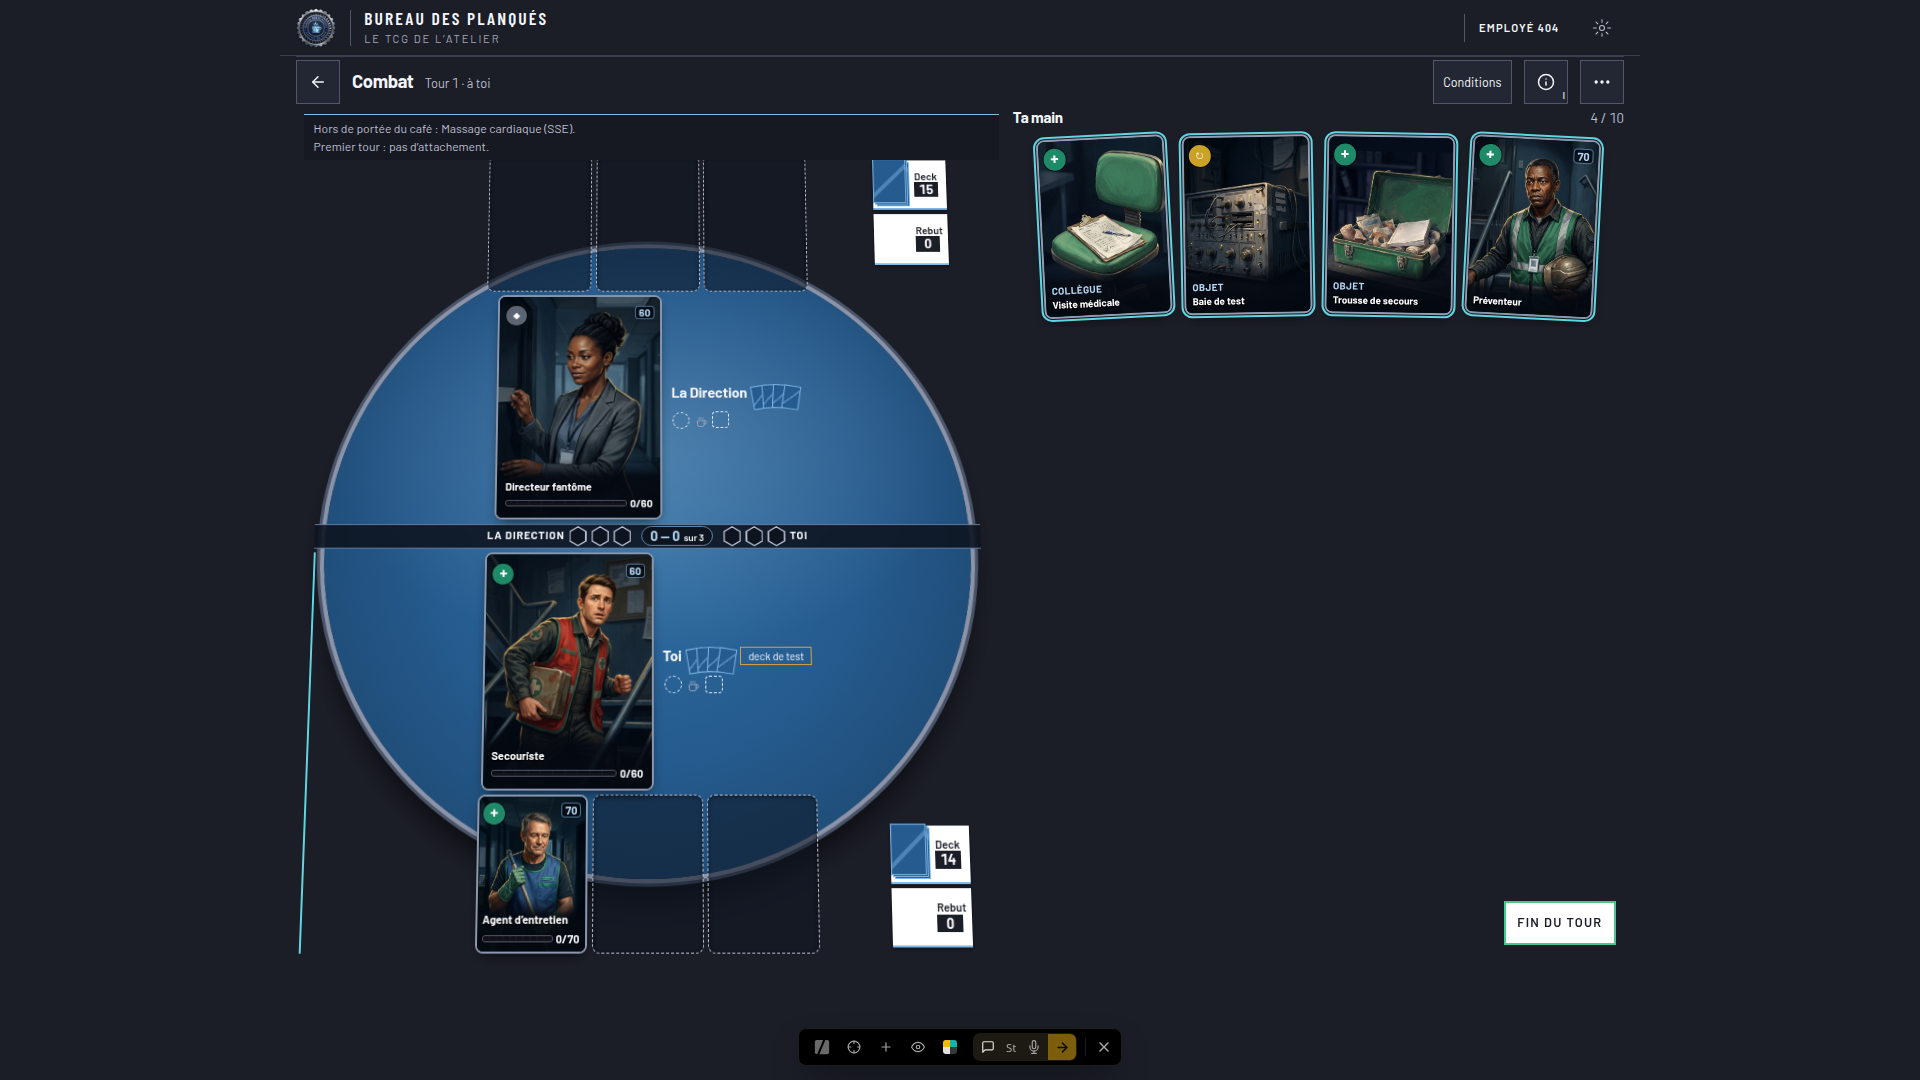
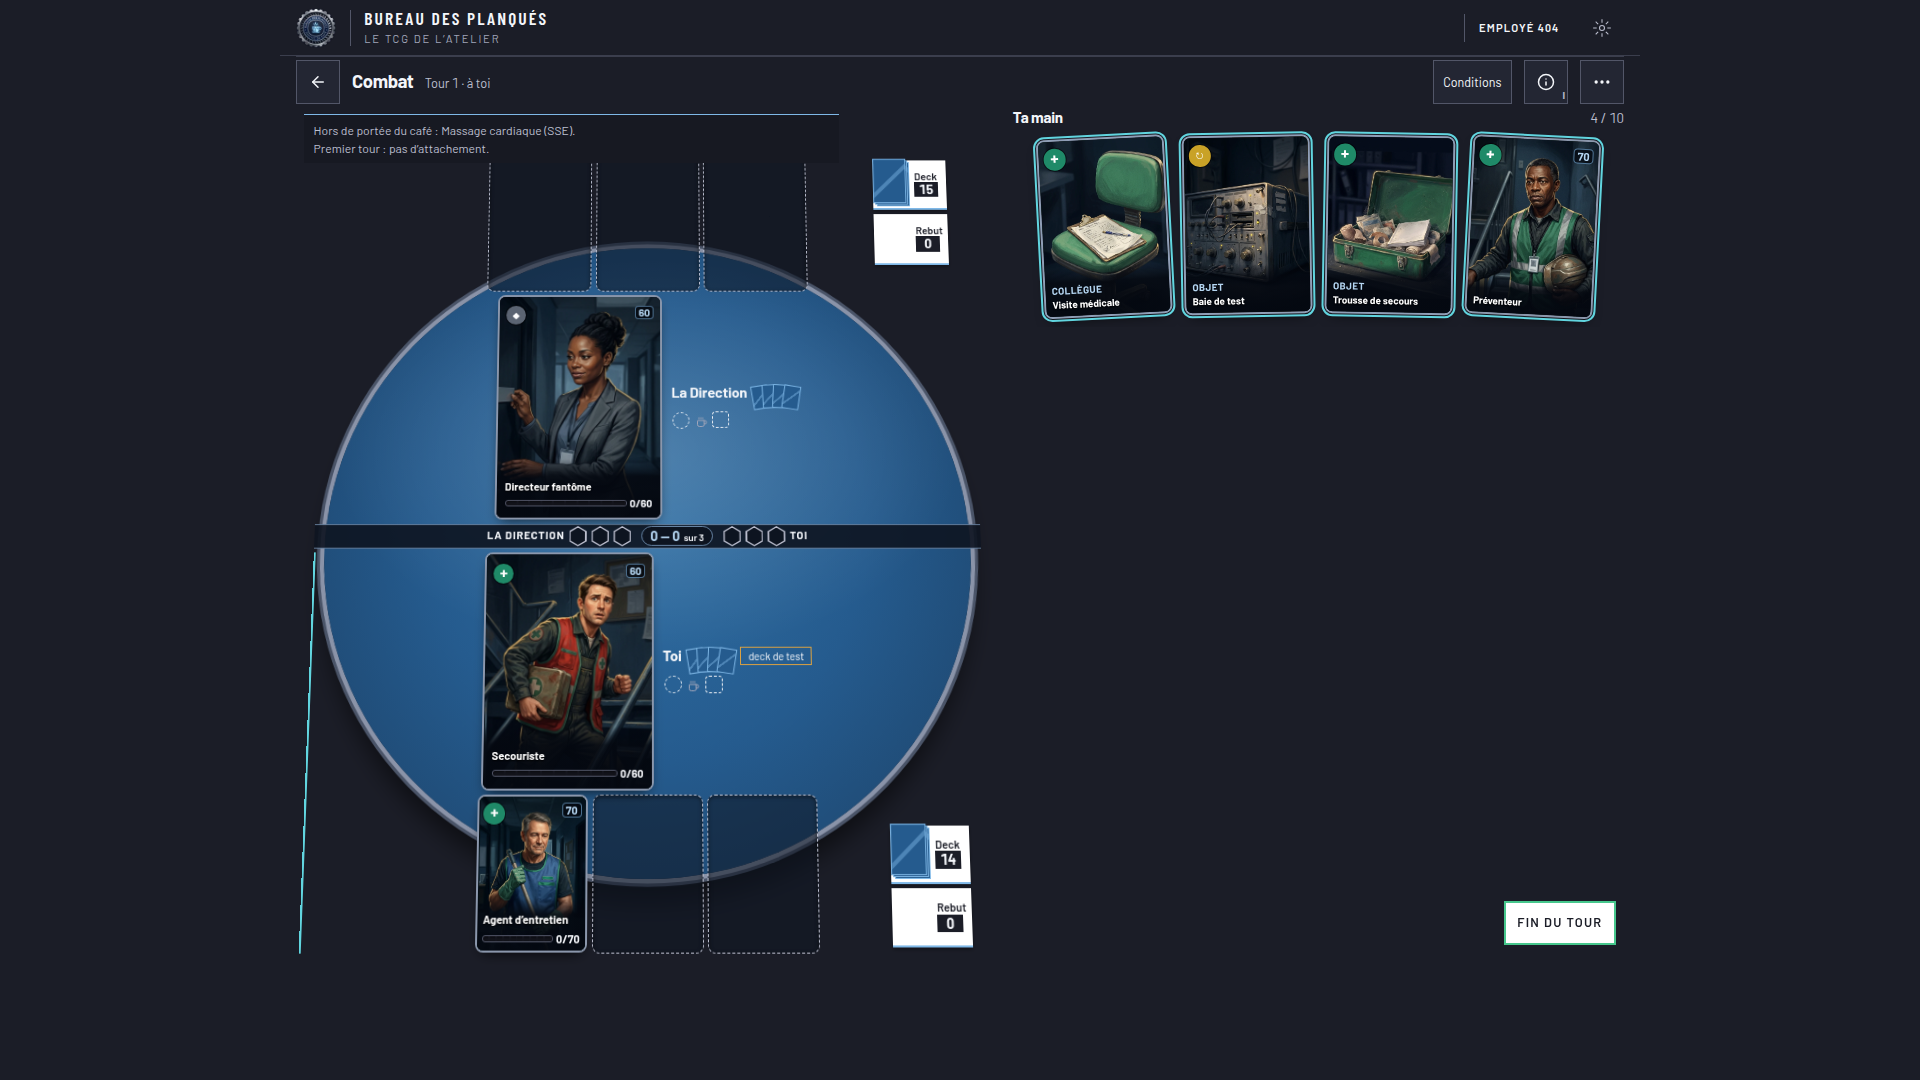
docs(preuves): captures du combat sans la barre de l'outil live, et ce qu'elles ne prouvent pas (#774)
combat-420x900, combat-pression-420x900 et combat-1920x1080 étaient pris pendant que
le script du live était injecté dans index.html : sa barre masquait le bas de l'écran.
Remplacés par la sortie de npm run capturer sur main propre (exit 0). Les captures de
dev restantes sont signalées dans le README. Les noms des cartes de la main ne sont
pas lisibles à 56 px : #744 n'est pas atteint.

Claude-Session: https://claude.ai/code/session_01Na6AA9eYttrwCGKC4zw7Sn

Changed region(s): [[0.4062, 0.9472, 0.5938, 1.0], [0.1562, 0.0917, 0.25, 0.1528], [0.25, 0.825, 0.3125, 0.8861]]

diff --git a/docs/preuves/combat-d193-2026-11-09/README.md b/docs/preuves/combat-d193-2026-11-09/README.md
@@ -26,5 +26,13 @@ Preuves de #774 et des tickets de la vague 2 (#739 à #751). Branche `agent/comb
 
 - **L'animation de pioche et de pose adverse** : la planche (> 1 Mo, refusée par la garde D-189) n'est pas conservée ; seul le DOM la prouve. **L'évolution n'est pas filmée.**
 - **La durée totale de l'ouverture (≤ 2 s)** : la planche ne couvre que ~0,8 s sur 1,76 s ; la version « Mouvement réduit » n'est pas filmée.
-- **Le rendu de la main rognée à 56 px** : sur les captures de dev, la barre de l'outil live en masque le bas ; la capture de `npm run capturer` en fait foi.
+- **Captures de dev avec la barre de l'outil `impeccable live`** : `combat-1280x800.png`, `planche-ouverture.png`,
+  `planche-tap-agrandir-voler.png` et `table-zoomee-essai.png` ont été prises pendant que le script du live
+  était injecté dans `index.html` : sa barre noire occupe le bas de l'écran et masque la main. Elles ne prouvent
+  pas le bas de l'écran.
+- **Corrigé le 10/11/2026** : `combat-420x900.png`, `combat-pression-420x900.png` et `combat-1920x1080.png`
+  étaient eux aussi pollués par cette barre ; ils sont remplacés par la sortie de `npm run capturer` sur `main`
+  propre (exit 0, `index.html` sans injection).
+- **Les noms des cartes de la main ne sont pas lisibles à 56 px** : sur `combat-420x900.png`, la bande visible ne
+  montre que la pastille de coût et l'illustration. #744 (nom en tête de carte) n'est pas atteint.
 - **L'écran de bureau** : composition cohérente (table à gauche, main et actions à droite) mais pas finale ; la main est en haut de sa colonne.
